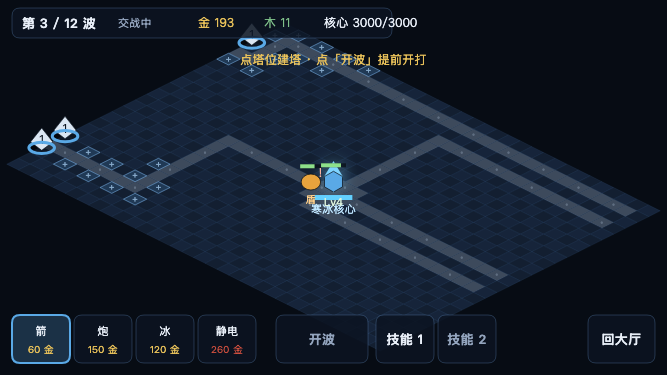
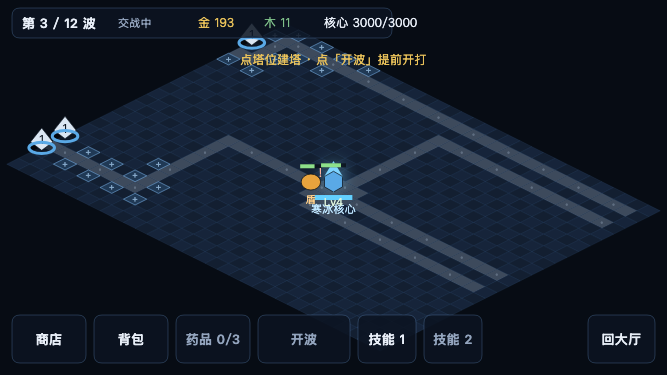
feat(minigame): 商店 + 背包 + 物品详情（第 3 步第四屏，局内决策补齐）
- 底部那排把四个塔种快捷键换成 商店 / 背包 / 药品（建塔改成点塔位弹面板之后，塔种快捷键是同一决定的第二入口）
- 商店：8 件商品两列，撤柜的两件写在行上（§3.1 #20），买不起/已买满/药品格满都灰掉并写原因，
  波次中下单的 3 秒读条进度写在标题里
- 背包：已装备 3 格 + 最近掉落（一屏 6 件，标题写总数）；凑够 3 件同部位同品质才给「一键合成」（两步确认）
- 物品详情：穿上 / 强化 +N（带金币）/ 出售（两步 + 返还金额，紫装以上带木材）
- 药品键直接显示 N/3，点一下就用
- 返现比例、木材加成、药品格数全部改从内核取常数（第一版手写 0.5，内核是 0.7——差点在界面上写假数字）
- npm test 280 → 283 项（+商店/背包详情/一条「点商店买药→点药品键喝掉」的闭环）
- 第四张样张 minigame-shop.png；本轮没碰浏览器侧代码，smoke 沿用 378 条全绿

diff --git a/src/minigame/battle.js b/src/minigame/battle.js
@@ -6,15 +6,23 @@
 // 这一屏的交互是**简化版**：点塔位 = 用当前选中的塔种建塔（已有塔则升级），点「开波」提前开波，
 // 点技能键放技能，点「回大厅」退回去。浏览器版那一套「点塔位 → 轮盘选塔 → 塔面板（升级/出售/优先级）」
 // 还没搬过来——真机手感确认之后再决定照搬还是换成更适合拇指的两步式（见 docs/minigame-port.md §5.2）。
-import { TARGET_PRIORITIES, TOWERS } from '../data.js';
+import {
+  EQUIP_SELL_BONUS_LUMBER, EQUIP_SELL_REFUND, EQUIP_SLOTS, QUALITY, QUALITY_ORDER,
+  SHOP_ITEMS, TARGET_PRIORITIES, TOWERS, TOWER_SELL_REFUND,
+} from '../data.js';
 import { attackHint } from '../hud-model.js';
-import { TOWER_REPAIR_GOLD, towerStatsAt, upgradeCost } from '../match.js';
+import {
+  TOWER_REPAIR_GOLD, craftableSlots, enhanceCostOf, potionCount, shopPriceOf, towerStatsAt, upgradeCost,
+} from '../match.js';
 
 export const DESIGN = { w: 667, h: 375 };
 /** 右上角胶囊按钮的禁区（和 lobby 同一条要求） */
 export const CAPSULE = { w: 96, h: 32 };
 export const TOWER_ORDER = ['tw_arrow', 'tw_cannon', 'tw_frost', 'tw_static'];
 export const PRIORITY_LABEL = { front: '最靠前', strongest: '最强', weakest: '最弱', air_first: '空中优先' };
+export const POTION_BAG_SLOTS = 3;   // §5.5.3：药品共 3 格（与内核同一个数）
+const QUALITY_NAME = Object.fromEntries(Object.entries(QUALITY).map(([k, v]) => [k, v.name ?? k]));
+const NEXT_QUALITY = { white: 'blue', blue: 'purple', purple: 'orange' };
 
 const COLORS = {
   panel: 'rgba(12, 20, 34, 0.86)',
@@ -57,16 +65,20 @@ const item = (id, x, y, w, h, label, action, extra = {}) => ({ id, x, y, w, h, l
  */
 export function layoutBattle(model = {}) {
   const items = [];
-  TOWER_ORDER.forEach((id, i) => {
-    items.push(item(`tower-${id}`, 12 + i * 62, 315, 58, 48, TOWERS[id].name.replace('塔', ''),
-      { type: 'tower', value: id },
-      { on: (model.selectedTower ?? 'tw_arrow') === id, cost: TOWERS[id].cost }));
-  });
+  /**
+   * 底部一排（从左到右）：商店 / 背包 / 药品 / 开波（结算时变「再开一局」）/ 技能 1 / 技能 2 / 回大厅。
+   * 上一版这里是四个塔种快捷键——建塔改成「点塔位弹面板」之后它们就没用了（同一个决定两个入口），
+   * 于是让位给局内真正缺的三个入口。
+   */
+  items.push(item('shop', 12, 315, 74, 48, '商店', { type: 'shop' }));
+  items.push(item('bag', 94, 315, 74, 48, `背包${model.bagCount ? `(${model.bagCount})` : ''}`, { type: 'bag' }));
+  items.push(item('potion', 176, 315, 74, 48, `药品 ${model.potionCount ?? 0}/${POTION_BAG_SLOTS}`,
+    { type: 'potion' }, { disabled: !model.potionCount }));
   items.push(model.result
-    ? item('restart', 276, 315, 92, 48, '再开一局', { type: 'restart' })
-    : item('early', 276, 315, 92, 48, '开波', { type: 'early' }, { disabled: !model.canEarly }));
+    ? item('restart', 258, 315, 92, 48, '再开一局', { type: 'restart' })
+    : item('early', 258, 315, 92, 48, '开波', { type: 'early' }, { disabled: !model.canEarly }));
   for (let i = 0; i < 2; i += 1) {
-    items.push(item(`skill-${i}`, 376 + i * 62, 315, 58, 48, i === 0 ? '技能 1' : '技能 2',
+    items.push(item(`skill-${i}`, 358 + i * 66, 315, 58, 48, i === 0 ? '技能 1' : '技能 2',
       { type: 'skill', index: i }, { disabled: !(model.skills?.[i] ?? i === 0) }));
   }
   items.push(item('lobby', 588, 315, 67, 48, '回大厅', { type: 'lobby' }));
@@ -115,17 +127,9 @@ export function drawBattleHud(ctx, m, L, { selectedTower = 'tw_arrow', message =
     ctx.strokeStyle = on ? COLORS.accent : COLORS.panelLine;
     ctx.lineWidth = on ? 2 : 1;
     ctx.stroke();
-    const isTower = it.id.startsWith('tower-');
-    text(ctx, it.label, it.x + it.w / 2, it.y + (isTower ? 16 : 24), {
-      size: isTower ? 11 : 13, align: 'center', color: it.disabled ? COLORS.dim : COLORS.ink,
-      weight: isTower ? '' : 'bold',
+    text(ctx, it.label, it.x + it.w / 2, it.y + it.h / 2, {
+      size: 13, align: 'center', color: it.disabled ? COLORS.dim : COLORS.ink, weight: 'bold',
     });
-    if (isTower) {
-      const afford = m.gold >= it.cost;
-      text(ctx, `${it.cost} 金`, it.x + it.w / 2, it.y + 34, {
-        size: 10, align: 'center', color: afford ? COLORS.gold : COLORS.danger,
-      });
-    }
   }
 
   if (message) {
@@ -160,6 +164,9 @@ export function drawBattleHud(ctx, m, L, { selectedTower = 'tw_arrow', message =
  * 真机手感确认之后如果轮盘更顺手，再换（换的时候这一层的四件套不用动）。
  */
 export function layoutSheet(m, ui = {}) {
+  if (ui?.sheetKind === 'shop') return layoutShop(m, ui);
+  if (ui?.sheetKind === 'bag') return layoutBag(m, ui);
+  if (ui?.sheetKind === 'item') return layoutItem(m, ui);
   const slot = ui.panelSlot ?? ui.selectedSlot ?? null;
   if (slot == null) return null;
   const t = m.towers.find((x) => x.slot === slot) ?? null;
@@ -192,7 +199,7 @@ export function layoutSheet(m, ui = {}) {
   // 塔面板：读数 + 升级 / 出售（两步）/ 优先级 / 修塔（只在攻城图）/ 关闭
   const s = t.stats ?? towerStatsAt(m.map, t.cell, t.towerId, t.level);
   const cost = upgradeCost(t.towerId, t.level);
-  const refund = Math.floor(t.invested * 0.5);
+  const refund = Math.floor(t.invested * TOWER_SELL_REFUND);   // 与内核同一个常数，别手写比例
   const canRepair = !!m.map.def.siege && t.maxHp && t.hp < t.maxHp;
   const info = `Lv${t.level} · 伤害 ${s.damage.toFixed(1)} · 攻速 ${s.atkSpeed.toFixed(2)} · 射程 ${s.range.toFixed(1)}`
     + (s.hitsAir ? ' · 对空' : ' · 不对空') + ` · ${attackHint(s.attackType)}`;
@@ -232,6 +239,129 @@ export function layoutSheet(m, ui = {}) {
     title: `${TOWERS[t.towerId].name} · Lv${t.level}`,
     hint: info,
     box: { x: 12, y: 62, w: 643, h: canRepair ? 240 : 190 },
+    rows, byId: Object.fromEntries(rows.map((r) => [r.id, r])),
+  };
+}
+
+/* ---------- 商店 / 背包 / 物品详情 ---------- */
+
+const itemLabel = (it) =>
+  `${QUALITY_NAME[it.quality] ?? it.quality}${EQUIP_SLOTS[it.slot]?.name ?? it.slot} ilvl${it.ilvl}${it.plus ? ` +${it.plus}` : ''}`;
+
+/**
+ * 商店（§5.5）：药品 3 格、技能书；**禁售与买满的写在行上**（§3.1 #20 的口径：撤柜也要说清为什么）。
+ * 波次中下单会走 3 秒读条（§5.5）——读条进度写在标题里，玩家不用猜为什么按钮点不动。
+ */
+export function layoutShop(m, ui = {}) {
+  const rows = [];
+  SHOP_ITEMS.forEach((it, i) => {
+    const col = i % 2, row = Math.floor(i / 2);
+    const price = shopPriceOf(m, it.id) ?? { gold: it.priceGold, lumber: it.priceLumber ?? 0 };
+    const blocked = m.shopBlocked?.[it.id];
+    const bought = m.shopBought?.[it.id] ?? 0;
+    const maxed = it.limit != null && bought >= it.limit;
+    const bagFull = it.type === 'potion' && potionCount(m) >= POTION_BAG_SLOTS;
+    const sub = blocked ? '已撤柜'
+      : maxed ? '已买满'
+        : bagFull ? '药品格已满'
+          : `${price.gold} 金${price.lumber ? ` + ${price.lumber} 木` : ''}`;
+    rows.push({
+      id: `buy-${it.id}`, label: it.name, sub,
+      x: 20 + col * 314, y: 96 + row * 50, w: 300, h: 44,
+      disabled: !!blocked || maxed || bagFull || m.gold < price.gold,
+      action: { type: 'buy', itemId: it.id },
+    });
+  });
+  const closeY = 96 + Math.ceil(SHOP_ITEMS.length / 2) * 50;
+  rows.push({ id: 'close', label: '关闭', x: 20, y: closeY, w: 614, h: 44, action: { type: 'close' } });
+  const cast = m.shopCast ? ` · 读条中 ${Math.max(0, (m.shopCast.until ?? 0) - m.time).toFixed(1)}s` : '';
+  return {
+    kind: 'shop',
+    title: `商店 · 金币 ${Math.round(m.gold)}${cast}`,
+    hint: `药品 ${potionCount(m)}/${POTION_BAG_SLOTS} 格 · 波次中下单读条 3 秒`,
+    box: { x: 12, y: 62, w: 643, h: closeY - 6 },
+    rows, byId: Object.fromEntries(rows.map((r) => [r.id, r])),
+  };
+}
+
+/**
+ * 背包（§5.2/§5.4）：已装备 3 格 + 最近掉落的几件；点一件进「物品详情」。
+ * 一屏放得下的件数有限（小游戏屏幕就这么大），所以只列最近的，剩下的在提示行里写清总数。
+ */
+export function layoutBag(m, ui = {}) {
+  const rows = [];
+  const equipped = Object.keys(EQUIP_SLOTS).map((s) => m.equipped?.[s]).filter(Boolean);
+  const inv = [...(m.inventory ?? [])].reverse();
+  const shown = [...equipped.map((it) => ({ it, equipped: true })), ...inv.map((it) => ({ it, equipped: false }))].slice(0, 6);
+  shown.forEach(({ it, equipped: isEq }, i) => {
+    const col = i % 2, row = Math.floor(i / 2);
+    rows.push({
+      id: `item-${it.uid}`, label: itemLabel(it), sub: isEq ? '已装备' : `${(it.affixes ?? []).length} 词条`,
+      x: 20 + col * 314, y: 96 + row * 50, w: 300, h: 44, on: isEq,
+      action: { type: 'item', uid: it.uid },
+    });
+  });
+  if (!shown.length) {
+    rows.push({ id: 'empty', label: '还没有掉落', x: 20, y: 96, w: 614, h: 44, disabled: true, action: null });
+  }
+  const craft = craftableSlots(m)[0];
+  const rowY = 96 + Math.max(1, Math.ceil(shown.length / 2)) * 50;
+  if (craft) {
+    rows.push({
+      id: 'craft', label: ui.craftArmed ? '确认合成？' : '一键合成',
+      sub: `3 件${QUALITY_NAME[craft.quality]}${EQUIP_SLOTS[craft.slot].name} → 1 件${QUALITY_NAME[NEXT_QUALITY[craft.quality]]}`,
+      x: 20, y: rowY, w: 300, h: 44, danger: !!ui.craftArmed,
+      action: { type: 'craft', slot: craft.slot, quality: craft.quality },
+    });
+    rows.push({ id: 'close', label: '关闭', x: 334, y: rowY, w: 300, h: 44, action: { type: 'close' } });
+  } else {
+    rows.push({ id: 'close', label: '关闭', x: 20, y: rowY, w: 614, h: 44, action: { type: 'close' } });
+  }
+  return {
+    kind: 'bag',
+    title: `背包 · ${m.inventory?.length ?? 0} 件（显示最近 ${Math.min(6, shown.length)} 件）`,
+    hint: craft ? '' : '攒够 3 件同部位同品质即可一键合成',
+    box: { x: 12, y: 62, w: 643, h: rowY + 44 + 12 - 62 },
+    rows, byId: Object.fromEntries(rows.map((r) => [r.id, r])),
+  };
+}
+
+/** 物品详情（§5.4 的三个动作：穿上 / 强化 / 出售）——与浏览器版 `actionsRow` 同一套动作 */
+export function layoutItem(m, ui = {}) {
+  const uid = ui.itemUid;
+  const inBag = (m.inventory ?? []).find((x) => x.uid === uid) ?? null;
+  const it = inBag ?? Object.values(m.equipped ?? {}).find((x) => x?.uid === uid) ?? null;
+  if (!it) return null;
+  const rows = [];
+  if (inBag) {
+    rows.push({
+      id: 'equip', label: '穿上', sub: '', x: 20, y: 96, w: 614, h: 44,
+      action: { type: 'equip', uid },
+    });
+  }
+  const cost = enhanceCostOf(it);
+  // 返还比例与「紫装以上多给木材」都取内核那两个常数（§5.4），别在这里手写一份
+  const refund = Math.floor((it.invested ?? 0) * EQUIP_SELL_REFUND);
+  const bonus = QUALITY_ORDER.indexOf(it.quality) >= QUALITY_ORDER.indexOf('purple')
+    ? ` + ${EQUIP_SELL_BONUS_LUMBER} 木` : '';
+  rows.push({
+    id: 'enhance', label: cost == null ? '强化已满级' : `强化 +${(it.plus ?? 0) + 1}`,
+    sub: cost == null ? '' : `${cost} 金`,
+    x: 20, y: inBag ? 146 : 96, w: 300, h: 44, disabled: cost == null || m.gold < cost,
+    action: { type: 'enhance', uid },
+  });
+  rows.push({
+    id: 'sell', label: ui.sellArmed ? '确认出售' : '出售', sub: `返还 ${refund} 金${bonus}`,
+    x: 334, y: inBag ? 146 : 96, w: 300, h: 44, danger: !!ui.sellArmed,
+    action: { type: 'sellItem', uid },
+  });
+  rows.push({ id: 'close', label: '关闭', x: 20, y: inBag ? 196 : 146, w: 614, h: 44, action: { type: 'close' } });
+  const closeBox = inBag ? 196 : 146;
+  return {
+    kind: 'item',
+    title: itemLabel(it),
+    hint: `词条 ${(it.affixes ?? []).length}`,
+    box: { x: 12, y: 62, w: 643, h: closeBox + 44 + 12 - 62 },
     rows, byId: Object.fromEntries(rows.map((r) => [r.id, r])),
   };
 }

diff --git a/src/minigame/game.js b/src/minigame/game.js
@@ -7,8 +7,9 @@
 import { TICK_STEP } from '../data.js';
 import { DEFENSE_MAPS, MAPS } from '../data.js';
 import {
-  buildTower, castSkill, createMatch, describe as describeMatch, repairTower,
-  sellTower, setPriority, startWaveEarly, towerAtSlot, update, upgradeTower,
+  buildTower, buyItem, castSkill, craftEquipment, createMatch, describe as describeMatch, equipItem,
+  enhanceItem, potionCount, repairTower, sellItem, sellTower, setPriority, startWaveEarly,
+  towerAtSlot, update, upgradeTower, usePotion,
 } from '../match.js';
 import { createDefenseMatch, describeDefense, updateDefense } from '../defense.js';
 import { isMiniGame, onTouch, storage, viewport } from '../platform.js';
@@ -128,15 +129,22 @@ export function startMinigame({ requestAnimationFrame: raf = globalThis.requestA
 
   /** 一次「点」：弹层 → HUD → 战场（翻成最近的塔位） */
   const tapBattle = (b, x, y) => {
-    // 弹层开着时它最优先（关掉 / 选塔 / 升级 …）
-    if (b.ui.selectedSlot != null || b.ui.panelSlot != null) {
+    // 弹层开着时它最优先（关掉 / 选塔 / 升级 / 买东西 / 换装 …）
+    if (b.ui.sheetKind || b.ui.selectedSlot != null || b.ui.panelSlot != null) {
       const action = hitTestSheet(layoutSheet(b.m, b.ui), x, y);
       return applySheetAction(b, action);
     }
     const action = hitTestBattle(b.layout, x, y);
     if (action) {
       switch (action.type) {
-        case 'tower': b.selectedTower = action.value; note(b, `选中 ${action.label}（${action.cost} 金）`, 1.2); return action;
+        case 'shop': b.ui = { sheetKind: 'shop' }; return action;
+        case 'bag': b.ui = { sheetKind: 'bag' }; return action;
+        case 'potion': {
+          const id = b.m.bag.pot_small ? 'pot_small' : (b.m.bag.pot_large ? 'pot_large' : null);
+          const ok = id ? usePotion(b.m, id) : false;
+          note(b, ok ? '用药' : '药品冷却中或没有药');
+          return action;
+        }
         case 'early': {
           const ok = startWaveEarly(b.m, 0);
           note(b, ok ? '提前开波' : '现在开不了（正在交战）');
@@ -207,9 +215,42 @@ export function startMinigame({ requestAnimationFrame: raf = globalThis.requestA
         note(b, ok ? '塔已修复' : '金币不足或无需修复');
         return action;
       }
-      case 'tower':   // 底部那排塔种按钮（快捷改默认建造种类）
-        b.selectedTower = action.value;
+      // ---- 商店 / 背包 / 物品 ----
+      case 'buy': {
+        const ok = buyItem(b.m, action.itemId, 0);
+        const item = b.model().sheet?.byId?.[`buy-${action.itemId}`];
+        note(b, ok ? `买了 ${item?.label ?? action.itemId}` : '买不了（金币不足 / 已买满 / 药品格已满）');
         return action;
+      }
+      case 'item':
+        b.ui = { sheetKind: 'item', itemUid: action.uid };
+        return action;
+      case 'equip': {
+        const ok = equipItem(b.m, action.uid);
+        note(b, ok ? '已换上' : '换装失败');
+        b.ui = { sheetKind: 'bag' };   // 回到背包，能直接看到变化
+        return action;
+      }
+      case 'enhance': {
+        const ok = enhanceItem(b.m, action.uid);
+        note(b, ok ? '强化完成' : '金币不足或已满级');
+        return action;
+      }
+      case 'sellItem': {
+        if (!b.ui.sellArmed) { b.ui = { ...b.ui, sellArmed: true }; note(b, '再点一次确认出售', 2); return action; }
+        const ok = sellItem(b.m, action.uid, 0);
+        note(b, ok ? '已出售' : '出售失败');
+        b.ui = { sheetKind: 'bag' };
+        return action;
+      }
+      case 'craft': {
+        // 合成不可逆（§5.4.1）：和出售一样两步确认
+        if (!b.ui.craftArmed) { b.ui = { ...b.ui, craftArmed: true }; note(b, '再点一次确认合成', 2); return action; }
+        const ok = craftEquipment(b.m, action.slot, action.quality);
+        note(b, ok ? '合成成功' : '合成失败');
+        b.ui = { sheetKind: 'bag' };
+        return action;
+      }
       default: return action;
     }
   };
@@ -298,6 +339,9 @@ const describeBattleModel = (m) => ({
   result: m.result, length: m.length,
   canEarly: m.wave.phase === 'prep' && m.wave.timer > 0,
   skills: m.hero.skillUnlocked,
+  // 底部那排要显示的数量：药品格数（§5.5.3：共 3 格）与背包件数
+  potionCount: potionCount(m),
+  bagCount: m.inventory?.length ?? 0,
 });
 
 /** 回大厅时保留玩家刚选的模式/地图/难度/英雄（大厅的状态在进局那一刻被 Battle 接管了） */

diff --git a/docs/STATUS.md b/docs/STATUS.md
@@ -21,7 +21,7 @@
 ## 2. 一条命令复跑全部验证
 
 ```bash
-npm test        # 280 项：数值 / 波次 / 经济 / 装备 / 天赋 / 技能细节 / 存档 / 联机 / 快速匹配 / 触觉反馈 / 摇杆指令 / 溅射衰减 / 药品计数 / 解锁来源与流水 / 野外区分区 / 亚格渲染 / 克制提示 / 局内资源不外流 / 仇恨 1 秒 / 野外区文案 / 战绩分模式 / 面板可见性 / 浮层收起 / 房间码提示 / 空房保留窗口 / 联机指令出口（handler 逐个查）/ 畸形指令与限速 / 克制表与枚举对齐 / 联机镜像不落本地存档（§113） / 大厅按模式给选项（§115：防守没有「局内时长」） / 低特效档真的关脉冲（§116） / 怪物光环按半径结算（§117） / Boss 光环按地图开关（§118） / 逻辑帧步长只有一个定义（§119） / 协议版本两侧校验（§120） / 畸形 URL 参数不崩服务端（§121） / 别人的名字不执行（§122） / 名字长度截断（§122） / 畸形指令值不崩服务端（§123） / 房间码不可枚举（§124） / 名单不广播 uid（§125） / 调试钩子默认关（§126）与「只在本地生效」（§197）/  免费期无付费入口（§128） / 联机结算面板也写「声望 +N」（§130） / 通关转无尽的出口（§131） / 精研技能书真的 +1 级（§132） / 狂战药剂真的持续 30 秒（§133） / 防守模式 buff 生效与疾风步移速（§134） / 两模式英雄 tick 职责对齐（§135） / 亡语分裂在防守里也生效（§136） / 防守的怪也吃减速眩晕 DoT（§137） / 防守内容不许带未实现能力（§138） / 「继续上局」只在**真读得出来**时出现（§139 + §204） /  **疾行药剂在两个模式都生效（§144） / **回城冷却进存档且真的走满 30 秒（§147） / **联机修塔真的生效、TD 专属指令在防守房被拒（§148） / **联机结算的伤害占比不为空、防守占比条写中文名（§149） / **结算面板的掉落栏写中文名（§151） / **快速匹配排队时写明「在等」（§152） / **新手引导的门槛与「重看」（§153） / **文案里的数字与数据表对账（§155） / ****临时端口串门与僵尸根因（§157）** / **4★-6★ 图能从大厅选到（§158） / **真机视口下大厅动作行粘底（§159） / **结算面板出口也粘底（§160） / **真机视口下防守 HUD 紧凑排布（§161） / **真机视口下引导条不压操作行（§162） / **联机长局镜像换成 30 波表（§163）/**§130 偶发红改成确定性（§164） / **联机怪物血条分母（§165）** / **联机房英雄职业进配置（§166）** / **浸泡不变量补五项（§167） / **真机视口下防守人体工学（§168）** / **§2.2 地图表逐列对账（§169） / **其余五张数值表逐列对账（§170） / **真机上的双指缩放与双击回核心（§171） / **把量出的偏差写回设计文档（§172） / **复跑三张数字表（§173） / **协议消息类型两边都要有人用（§174） / **零读者的导出扫干净（§175）** / **用到的 class 都有样式规则（§176）** / **客户端开局参数归一化（§177：坏 URL 不白屏 + 不污染档案）** / **缺 seed 的房间不再是常数种子（§177）** / **提示音在真机手势里解锁、日志不再谎报（§178）** / **真机手势卫生：连点技能键/长按不再被浏览器抢走（§180）** / **HUD 按安全区收边、不再压进刘海（§181）** / **冒烟的 CDP 请求加上限、不再偶发挂死（§182）** / **存不了档时说一声（§183）** / **大厅里不再偷偷打那一局（§184：不跑模拟、不出怪、不记档）** / **竖屏兜底「请横屏」（§185）**…
+npm test        # 283 项：数值 / 波次 / 经济 / 装备 / 天赋 / 技能细节 / 存档 / 联机 / 快速匹配 / 触觉反馈 / 摇杆指令 / 溅射衰减 / 药品计数 / 解锁来源与流水 / 野外区分区 / 亚格渲染 / 克制提示 / 局内资源不外流 / 仇恨 1 秒 / 野外区文案 / 战绩分模式 / 面板可见性 / 浮层收起 / 房间码提示 / 空房保留窗口 / 联机指令出口（handler 逐个查）/ 畸形指令与限速 / 克制表与枚举对齐 / 联机镜像不落本地存档（§113） / 大厅按模式给选项（§115：防守没有「局内时长」） / 低特效档真的关脉冲（§116） / 怪物光环按半径结算（§117） / Boss 光环按地图开关（§118） / 逻辑帧步长只有一个定义（§119） / 协议版本两侧校验（§120） / 畸形 URL 参数不崩服务端（§121） / 别人的名字不执行（§122） / 名字长度截断（§122） / 畸形指令值不崩服务端（§123） / 房间码不可枚举（§124） / 名单不广播 uid（§125） / 调试钩子默认关（§126）与「只在本地生效」（§197）/  免费期无付费入口（§128） / 联机结算面板也写「声望 +N」（§130） / 通关转无尽的出口（§131） / 精研技能书真的 +1 级（§132） / 狂战药剂真的持续 30 秒（§133） / 防守模式 buff 生效与疾风步移速（§134） / 两模式英雄 tick 职责对齐（§135） / 亡语分裂在防守里也生效（§136） / 防守的怪也吃减速眩晕 DoT（§137） / 防守内容不许带未实现能力（§138） / 「继续上局」只在**真读得出来**时出现（§139 + §204） /  **疾行药剂在两个模式都生效（§144） / **回城冷却进存档且真的走满 30 秒（§147） / **联机修塔真的生效、TD 专属指令在防守房被拒（§148） / **联机结算的伤害占比不为空、防守占比条写中文名（§149） / **结算面板的掉落栏写中文名（§151） / **快速匹配排队时写明「在等」（§152） / **新手引导的门槛与「重看」（§153） / **文案里的数字与数据表对账（§155） / ****临时端口串门与僵尸根因（§157）** / **4★-6★ 图能从大厅选到（§158） / **真机视口下大厅动作行粘底（§159） / **结算面板出口也粘底（§160） / **真机视口下防守 HUD 紧凑排布（§161） / **真机视口下引导条不压操作行（§162） / **联机长局镜像换成 30 波表（§163）/**§130 偶发红改成确定性（§164） / **联机怪物血条分母（§165）** / **联机房英雄职业进配置（§166）** / **浸泡不变量补五项（§167） / **真机视口下防守人体工学（§168）** / **§2.2 地图表逐列对账（§169） / **其余五张数值表逐列对账（§170） / **真机上的双指缩放与双击回核心（§171） / **把量出的偏差写回设计文档（§172） / **复跑三张数字表（§173） / **协议消息类型两边都要有人用（§174） / **零读者的导出扫干净（§175）** / **用到的 class 都有样式规则（§176）** / **客户端开局参数归一化（§177：坏 URL 不白屏 + 不污染档案）** / **缺 seed 的房间不再是常数种子（§177）** / **提示音在真机手势里解锁、日志不再谎报（§178）** / **真机手势卫生：连点技能键/长按不再被浏览器抢走（§180）** / **HUD 按安全区收边、不再压进刘海（§181）** / **冒烟的 CDP 请求加上限、不再偶发挂死（§182）** / **存不了档时说一声（§183）** / **大厅里不再偷偷打那一局（§184：不跑模拟、不出怪、不记档）** / **竖屏兜底「请横屏」（§185）**…
 npm run soak    # 180 局全组合浸泡：运行期不变量 + 存档不动点 + 客户端镜像一致性
 npm run smoke   # 378 条真浏览器断言（**三个视口**、十一个面；含快速匹配、内存告警降级、真按下的短震动链路、防守摇杆拖动、点空地的塔位提示、克制提示与护甲预告、野外区掉落加成、防守战绩口径、日志面板让位/恢复、跨局浮层收起、攻城图的修塔按钮、秘传技能书的技能栏变化、优先级/速度/围墙/重置进度、HUD 数值跟随（7+3 处）、塔面板 X 与标题、再开一局、长局 30 波 HUD、真机视口下的轮盘/塔面板、房间码提示与镜像对齐、进不去房间转单人继续、被动掉线自动重连、**六条联机指令真的到服务端**、**§113 联机点「回大厅/再开一局」真的离房**、**§114 联机不假装暂停/加速、掉线写清 5 分钟**/**§115 防守模式不摆「局内时长」假选项**/**§116 低特效档真的关脉冲**/**§145 每次版式体检都查「两块 HUD 浮层不许叠在一起」**/**§153 新手引导门槛与「重看」（§153）/**设置面板按模式取舍选项（§154）/**文案里的数字与数据表对账（§155）**/**临时端口串门与僵尸根因（§157）/**4★-6★ 图能从大厅选到（§158）/**真机视口下大厅动作行粘底（§159）/**结算面板出口也粘底（§160）**/**真机视口下防守 HUD 紧凑排布（§161）**/**真机视口下引导条不压操作行（§162）/**联机长局镜像换成 30 波表（§163）/**§130 偶发红改成确定性（§164）/**联机怪物血条分母（§165）**/**联机房英雄职业进配置（§166）**/**浸泡不变量补五项（§167）/**真机视口下防守人体工学（§168）**/**§2.2 地图表逐列对账（§169）/**其余五张数值表逐列对账（§170）/**真机上的双指缩放与双击回核心（§171）**/**客户端坏 URL 不白屏（§177）**/**提示音在真机策略下真的响了（§178）**/**真机手势卫生（§180）**/**HUD 不进刘海安全区（§181）**/**大厅不跑模拟（§184）**/**竖屏有「请横屏」兜底（§185）**/**低端 4G 模拟下首屏 ≤3 秒（§186）** / **「再开一局」连打的第二局也记档（§188）** / **浏览器里真的把 12 波打完、结算与档案都对（§189）** / **防守也真的守满 4 轮；城堡陷落后「继续（无尽）」不再挂着（§190）** / **长局 30 波也在浏览器里真的打完（§191，含一条参考打法在 4★ 长局末波输掉的观测）** / **中途加入已在打的房（§192）** / **§130 那条「声望 +N」的偶发红改成确定性（§193：根因是房间空着时就记了结算）** / **`sim` 调试钩子只在本地生效（§197：补上 §126 那条「非 URL 开关」的规矩）** / **连打不涨：6 局 DOM/堆都平，并把「每局不长 DOM」钉进冒烟（§198）** / **服务端不再攒退役房间（§199：删掉只写不读的 `stopped` 表）** / **画布内容与「画面在动」也有检查了（§200–§202）** / **第三个视口 568×320（§203）** / **「能读的才算有存档」补齐后半（§204）** / **档案形状归一化（§205）** / **日志面板的 innerHTML 先转义（§206：那一处最容易新增玩家名字）**
 npm run waves   # §8.5 逐波余量（4 人基准）
@@ -194,7 +194,7 @@ npm run bench / bandwidth   # 容量 / 带宽预算（§110/§111：两个工具
 |---|---|---|---|
 | 1 | **按 `game-design.md` 的已确认需求开发** | ✅ | 设计文档里**打勾的验收清单**逐条有实现与检查（见 §1 那张表）；**所有数值表逐列对过账**（§169/§170，改一处就红）；**原「等拍板」的 33 条已全部拍板并落地**（§3.1 + 验证记录 §207–§209；文档类的 20 条在附录 B/C 与对应小节补了口径） |
 | 2 | **一直开发到能玩为止** | ✅ | 浏览器里**真的**跑通过整条链路：TD 短局通关（§189：7.4 分钟、结算面板、记档、解锁 map_02）、防守守满 4 轮转无尽（§190）、**长局 30 波**（§191：32.5 分钟）；联机建房 / 快速匹配 / 中途加入第 3 波（§192）/ 掉线重连 / 离场（§102/§113/§114）；三个视口（1334×750 / 667×375 / **568×320**）的版式与人体工学（§203、§145）；手机竖屏有「请横屏」兜底（§185） |
-| 3 | **自己去验证错误** | ✅ | 验证记录 **§1–§217**：每条发现都带「一个能失败的检查」+ 变异反证；最新一轮全量复跑：`npm test` **280 项** · `npm run smoke` **378 条**（三个视口、十一个面）· `soak` 180 局（119 胜 61 负，不变量一条没破）· `matrix` 全绿（**并检查首发三图普通档 8-12 分钟**）· `defense` 12.7 分钟/4 轮 · `waves` 12/12 · `defense-matrix` 36 局守住 22（**验收线 8 格全过**）· `bandwidth` 6.61 KB/s（预算 15）· `bench` 1699k 实体·帧/秒 · `tutorial` 3/3 达标 |
+| 3 | **自己去验证错误** | ✅ | 验证记录 **§1–§218**：每条发现都带「一个能失败的检查」+ 变异反证；最新一轮全量复跑：`npm test` **283 项** · `npm run smoke` **378 条**（三个视口、十一个面）· `soak` 180 局（119 胜 61 负，不变量一条没破）· `matrix` 全绿（**并检查首发三图普通档 8-12 分钟**）· `defense` 12.7 分钟/4 轮 · `waves` 12/12 · `defense-matrix` 36 局守住 22（**验收线 8 格全过**）· `bandwidth` 6.61 KB/s（预算 15）· `bench` 1699k 实体·帧/秒 · `tutorial` 3/3 达标 |
 
 **仍然在别人手里的（不是欠债，是等输入）**：
 

diff --git a/docs/minigame-port.md b/docs/minigame-port.md
@@ -110,11 +110,11 @@ npm run minigame         # 先打包再跑本地验收（假 wx）
 * **现在能玩的**：点塔位 → 建造面板选塔种（5.2.1）、点已建的塔 → 塔面板升级/出售/优先级/修塔（5.2.1）、
   底部一排快捷改默认塔种、点「开波」提前开打、点技能键放技能、点「回大厅」退回去；
   结算出来之后「开波」变成「再开一局」。
-* **还没搬过来的**（浏览器版有）：商店与背包、暂停与倍速、拖动与双指缩放、
-  **防守模式**（跟随相机 + 摇杆 + 另一套 HUD）。
+* **还没搬过来的**（浏览器版有）：暂停与倍速、拖动与双指缩放、
+  **防守模式**（跟随相机 + 摇杆 + 另一套 HUD）、新手引导条，以及结局面板还缺的细节
+  （掉落清单 / 伤害占比 / 「继续上局」这类出口）。
   防守那一格现在**明写着还没接**：大厅切到防守时「单人开局」会给出理由，而不是开一局 TD 糊弄过去。
-  这些是**剩下 7 屏**，按玩家每局都会走一遍的顺序：
-  **商店 / 背包 → 结算完善 → 设置 / 暂停 → 防守 HUD（含摇杆）→ 引导条**。
+  剩下这几屏按玩家每局都会走一遍的顺序：**结算完善 → 设置 + 暂停/倍速 → 防守 HUD（含摇杆）→ 引导条**。
 
 ### 5.2.1 建造与塔面板（已完成 · 2026-09-23）
 
@@ -130,6 +130,25 @@ npm run minigame         # 先打包再跑本地验收（假 wx）
 **为什么不做轮盘**：浏览器版是「点塔位 → 绕触点画一圈轮盘」，拇指得精确瞄准；小游戏屏更小、手指更粗，
 所以先给两步式（点塔位 → 面板里选/操作）。**这是暂定方案**，真机手感确认后如果轮盘更顺手再换——
 换的时候这一层的四件套（布局 / 绘制 / 命中 / 动作）不用动。
+
+### 5.2.2 商店与背包（已完成 · 2026-09-23）
+
+![小游戏商店样张](testing/screenshots/minigame-shop.png)
+
+底部那排把四个塔种快捷键换成了 **商店 / 背包 / 药品**（建塔改成「点塔位弹面板」之后，塔种快捷键
+就成了同一个决定的第二个入口，删掉它让位给真正缺的三个）：
+
+* **商店**：8 件商品两列排（药品 / 增益 / 技能书各带价格，秘传书还带木材），
+  **撤柜的两件（群体治疗符、回城卷轴）写在行上**（§3.1 #20 的口径：撤柜也要说清为什么），
+  买不起 / 已买满 / 药品格满都会灰掉并写明原因；波次中下单的 3 秒读条进度写在标题里。
+* **背包**：已装备 3 格 + 最近掉落（一屏放 6 件，其余在标题里写总数），点一件进**物品详情**——
+  穿上 / 强化 +N（带金币）/ 出售（两步确认 + 返还金额，紫装以上带木材加成）；凑够 3 件同部位同品质时
+  出现**一键合成**（同样两步确认）。
+* **药品键**：底部直接显示 `药品 N/3`，点一下就用（冷却中或没药会说一句）。
+
+返现比例、木材加成、药品格数这些数**都从内核取**（`EQUIP_SELL_REFUND` / `TOWER_SELL_REFUND` /
+`EQUIP_SELL_BONUS_LUMBER` / `POTION_BAG_SLOTS`）——第一版我手写了 0.5，而内核是 0.7，
+差一点就把「出售返还」写成假数字。
 
 ### 5.3 复跑
 
